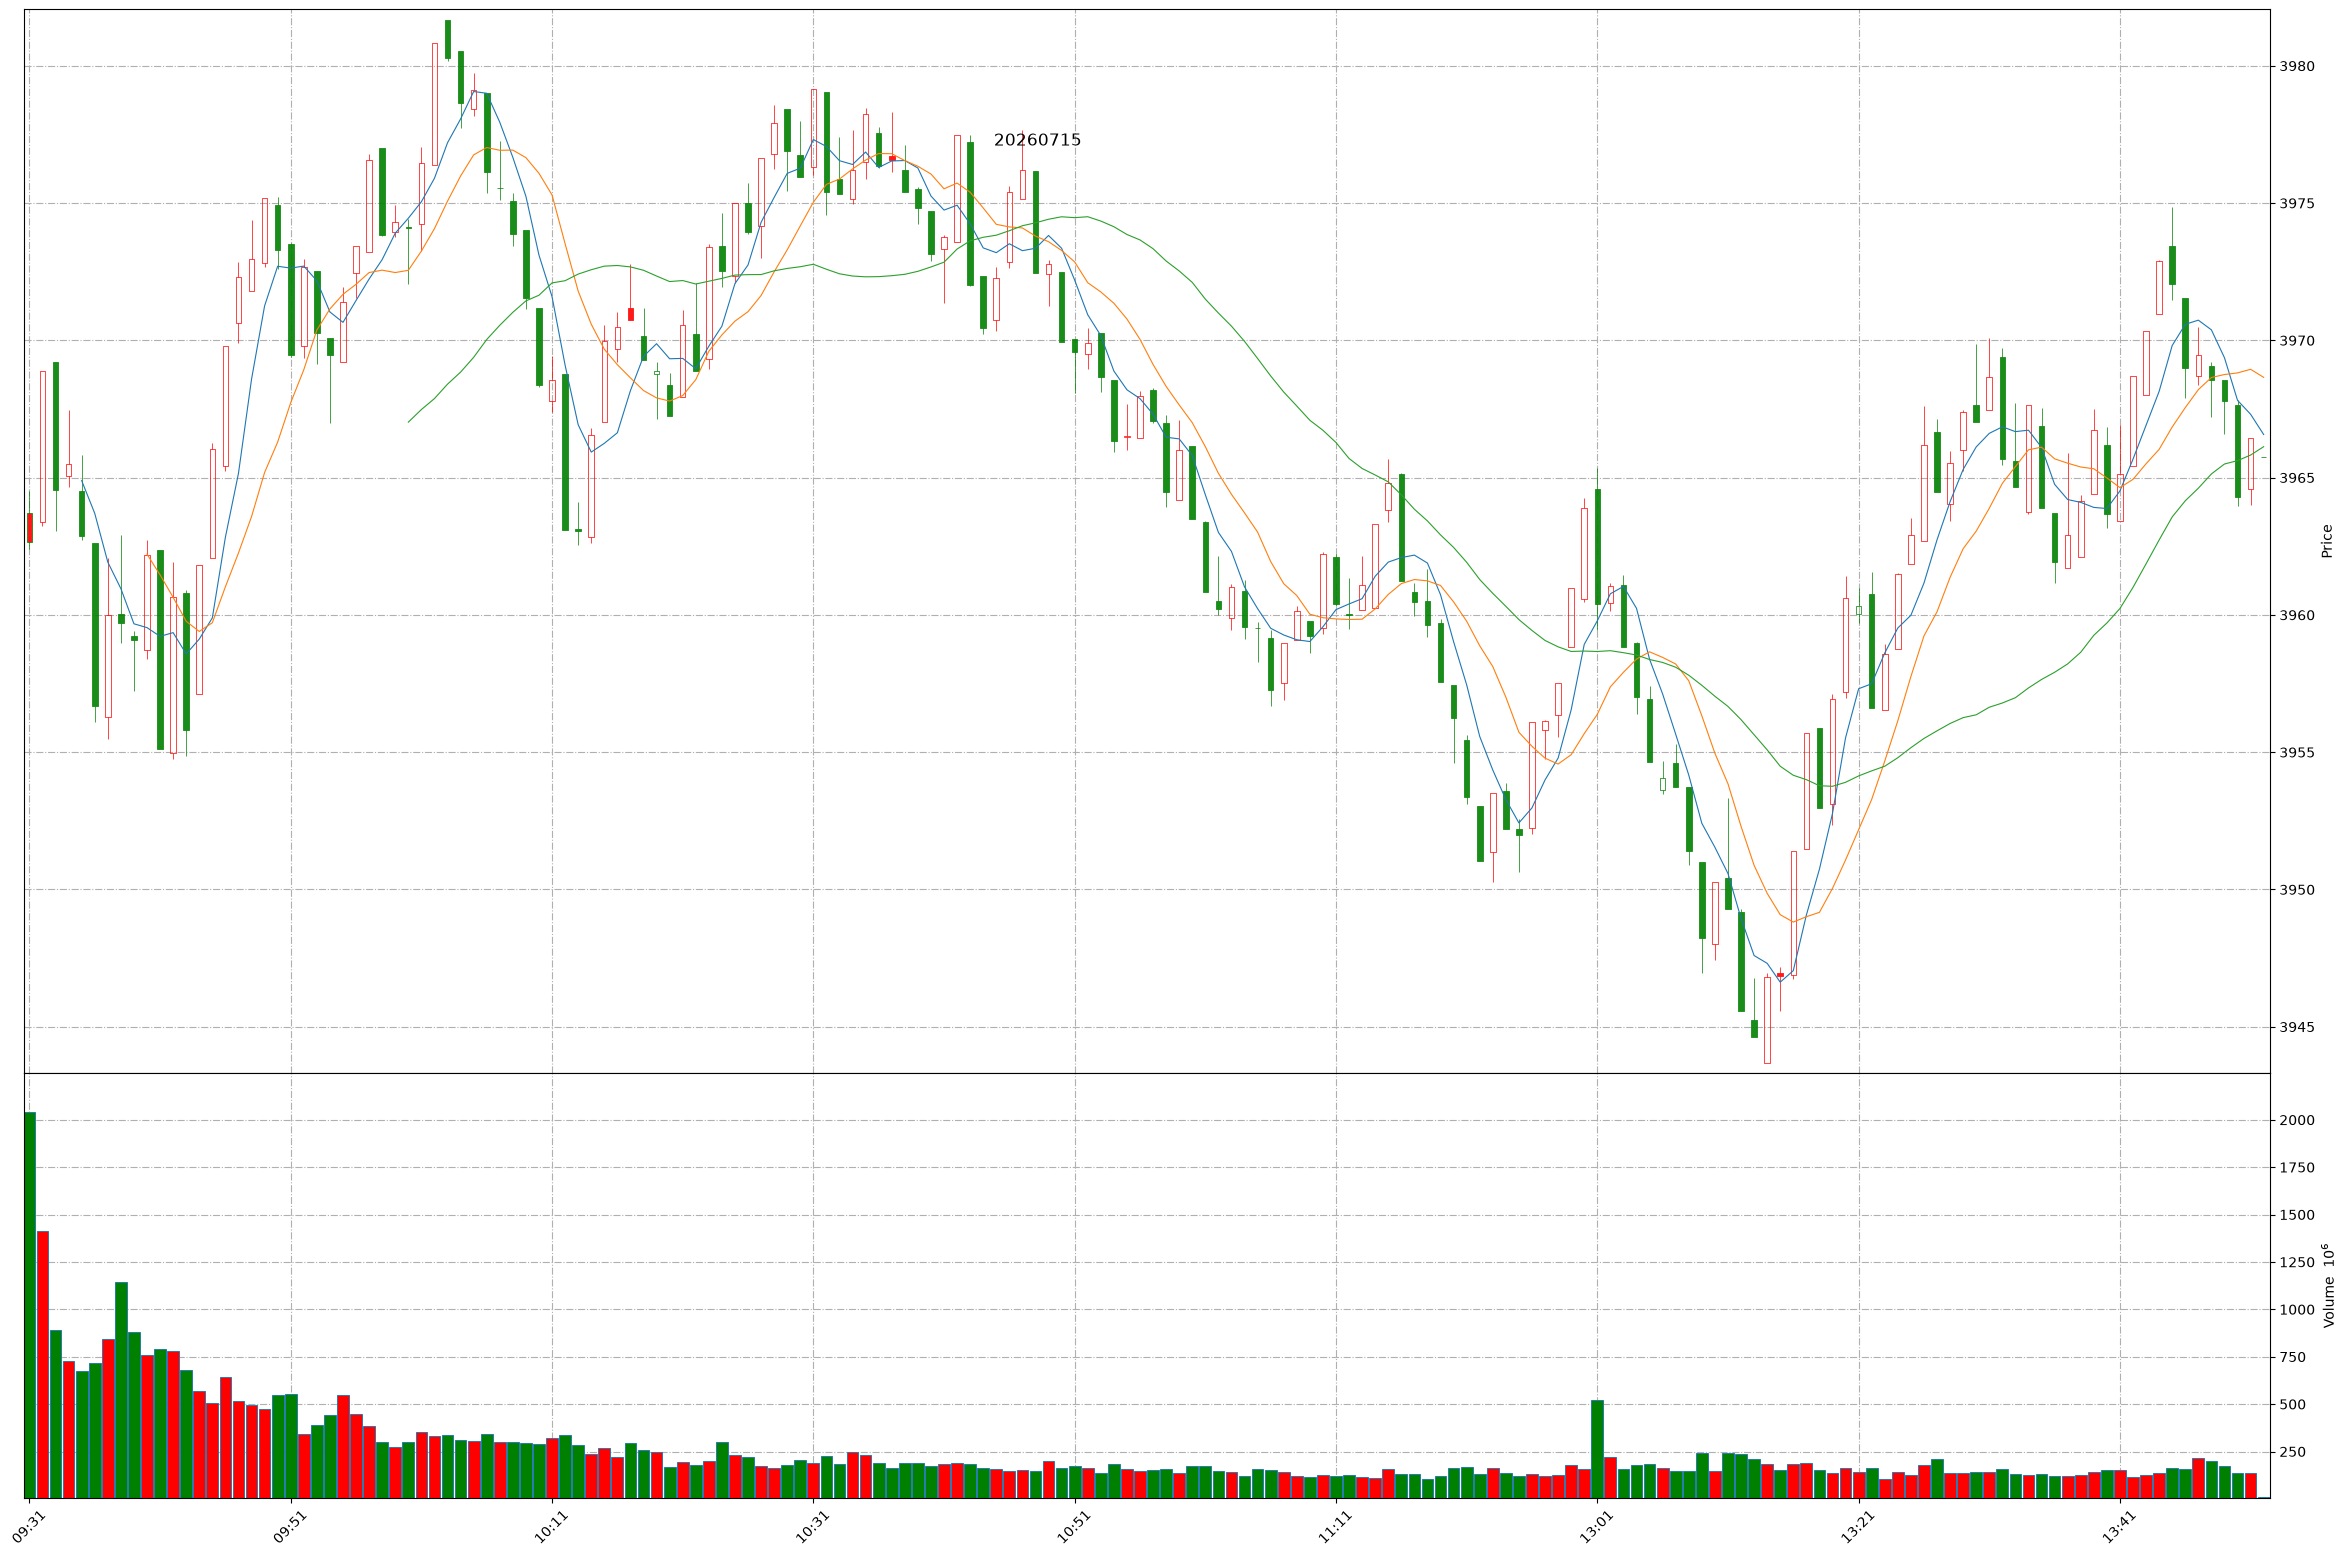
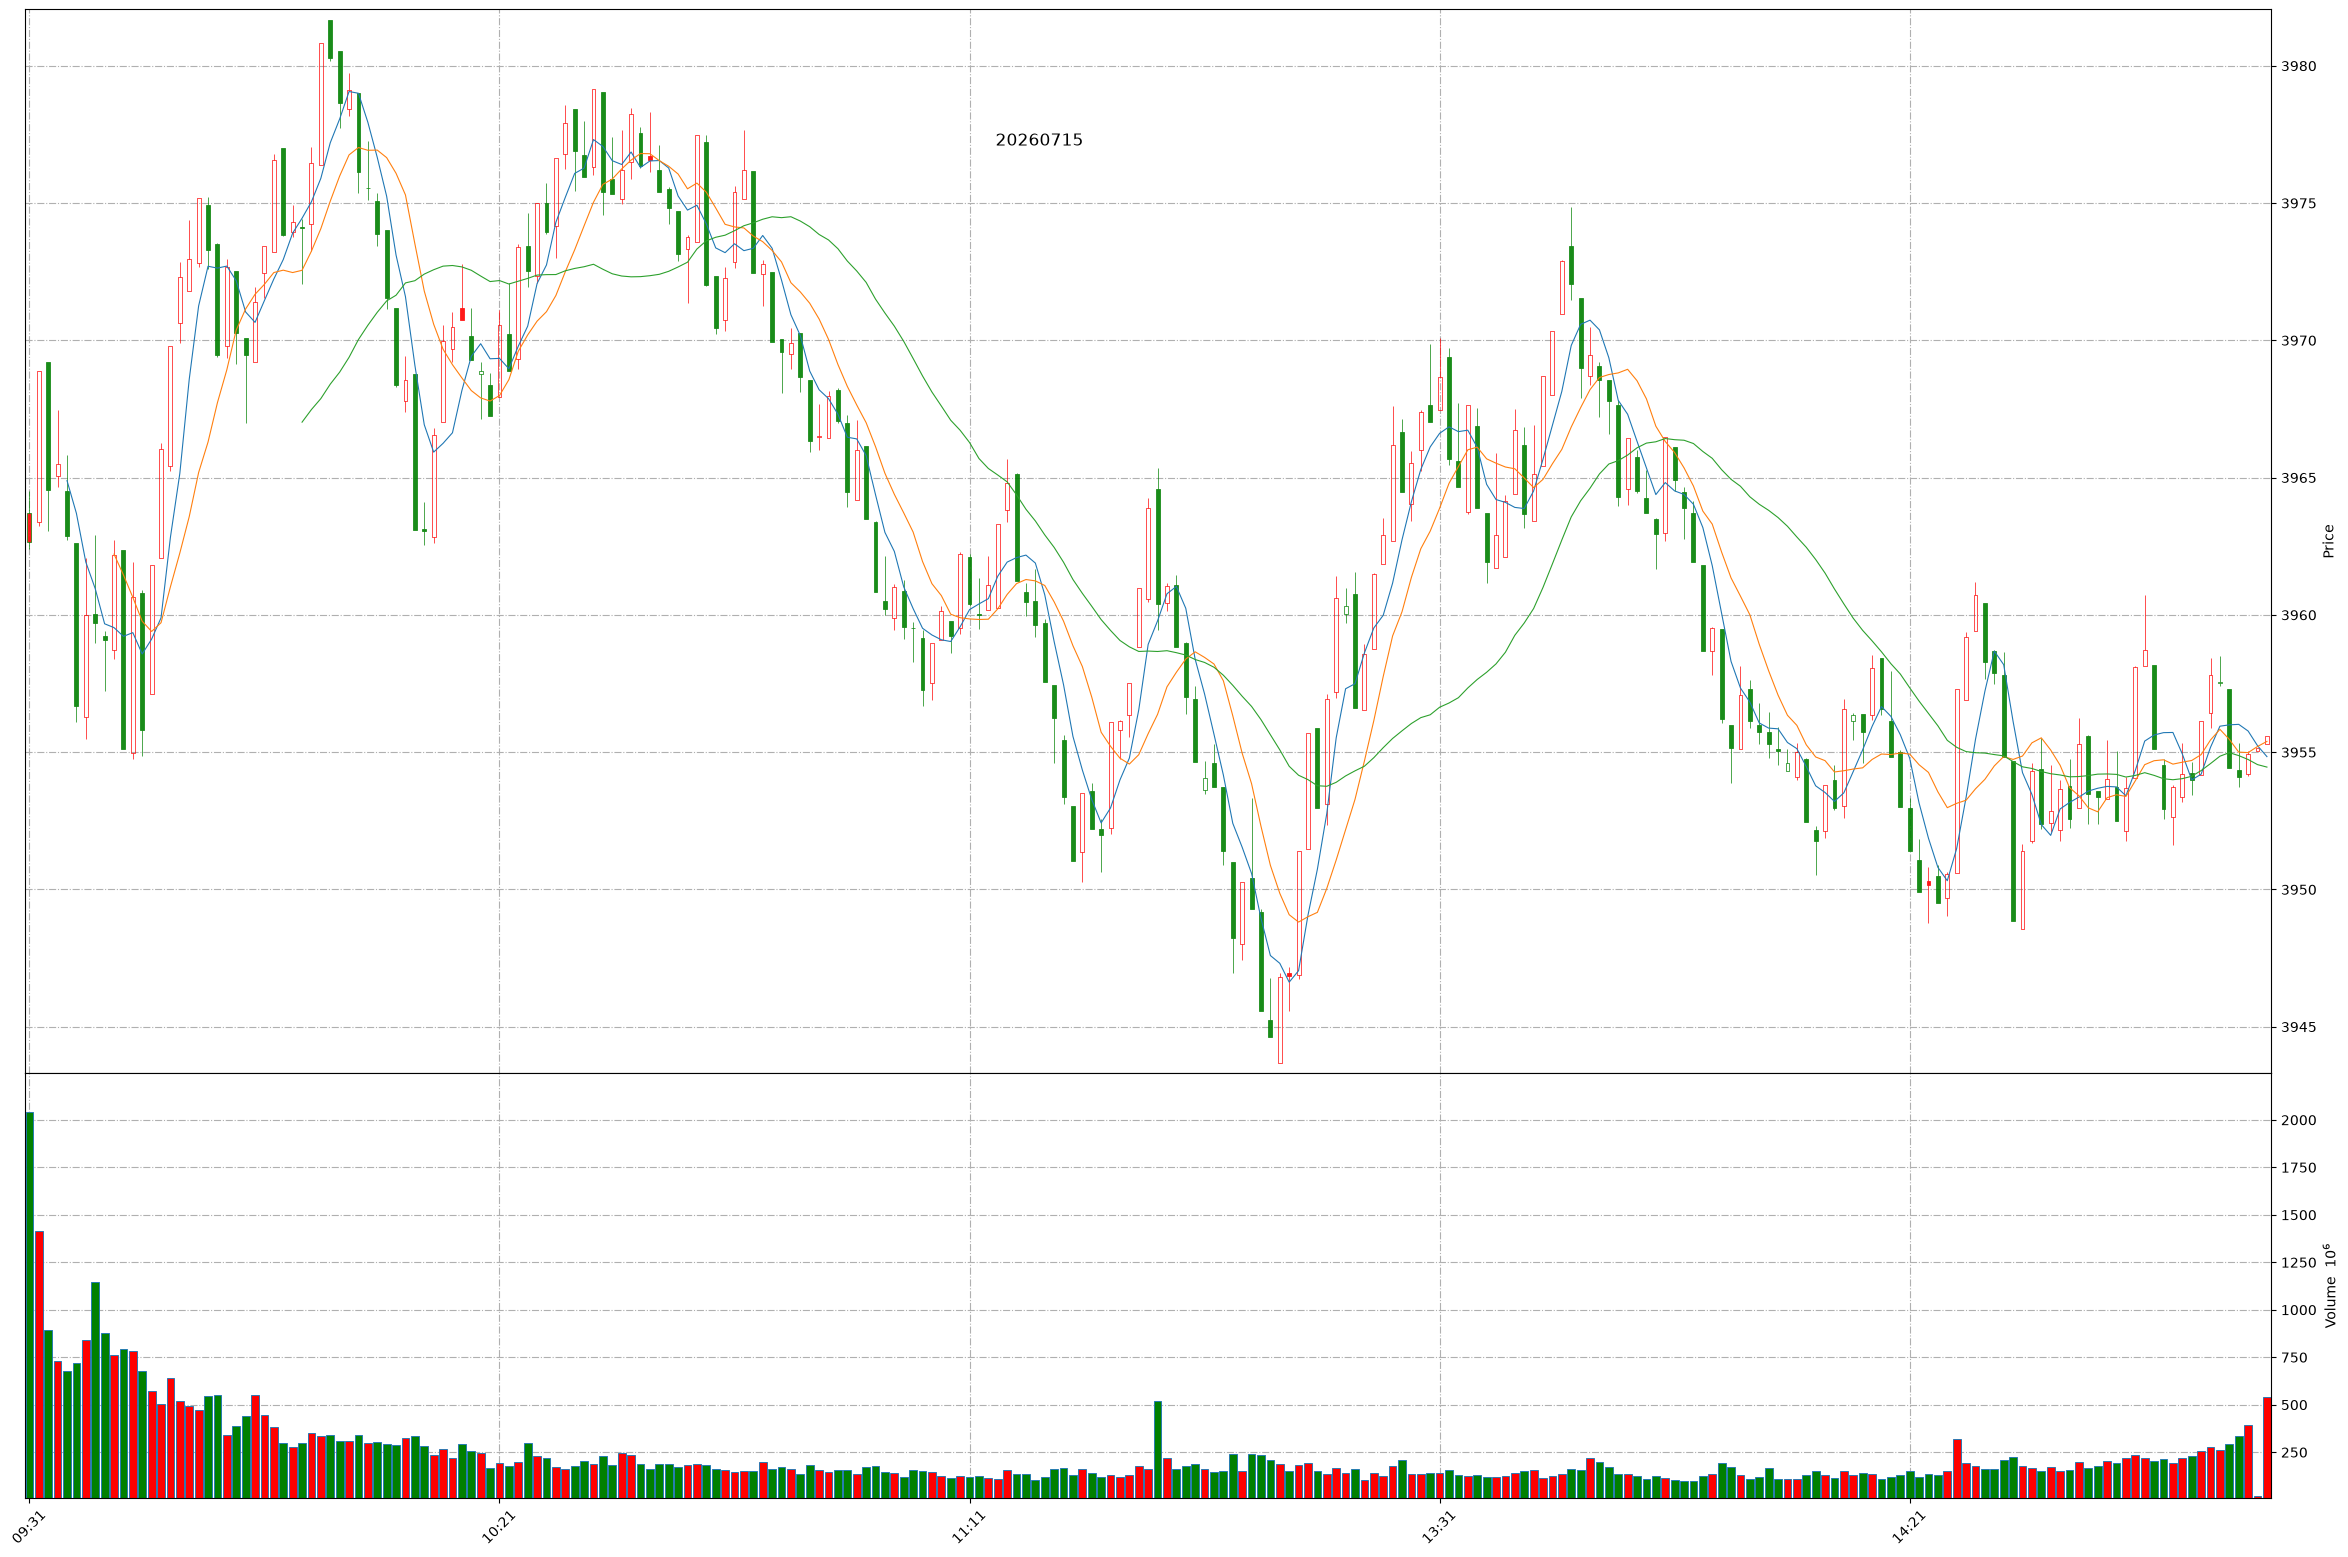
Github action update at 2026-07-15 15:12:39.

diff --git a/README.md b/README.md
@@ -1,11 +1,11 @@
 
 # Daily-A-share-market-quotes 每日 A 股指数（5min 更新）- 20260715
 
-### 上证指数 20260715 13:51
+### 上证指数 20260715 15:12
 ![](./fig/2026/7/20260715-sh000001.png)
 
-### 深证成指 20260715 13:51
+### 深证成指 20260715 15:12
 ![](./fig/2026/7/20260715-sz399001.png)
 
-### 北证50 20260715 13:51
+### 北证50 20260715 15:12
 ![](./fig/2026/7/20260715-bj899050.png)
